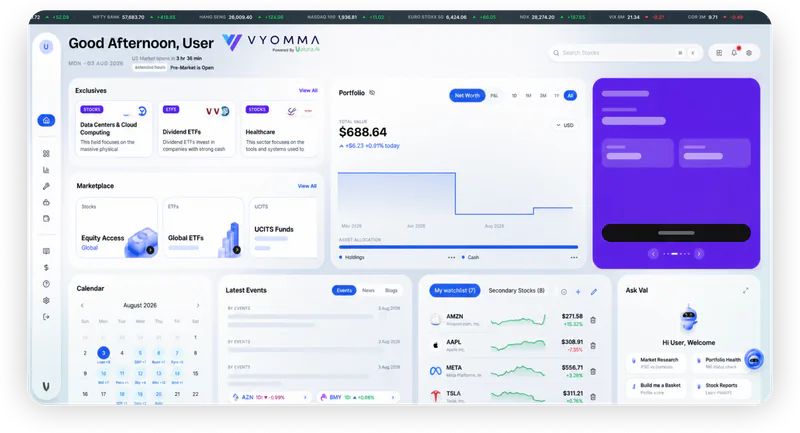
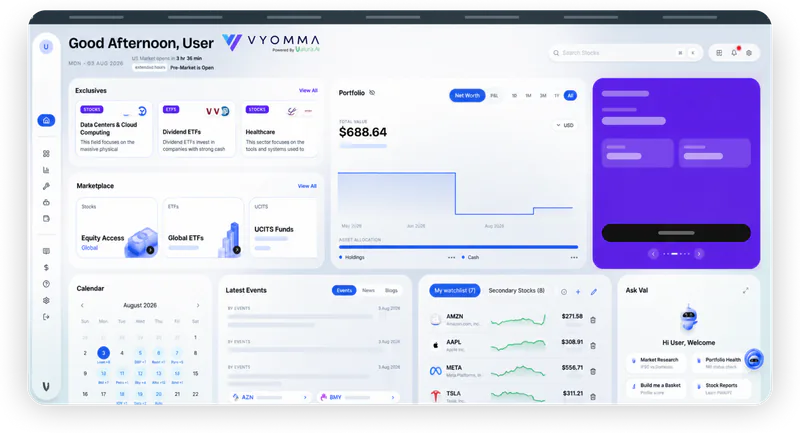
vyomma: paint out return figures and account details in the app screens
A second review of the shipped mock screens found figures and details that should not appear
on a regulated landing page, even with the illustrative caption.

- dashboard: index ticker values, the portfolio day change, watchlist and event chip
  percentage moves replaced with neutral placeholder bars (greetings already read "User")
- portfolio analysis screen: every metric value and sub-label replaced with placeholder bars
- bank screen: masked account number and IFSC value replaced with placeholder bars
- Open Graph image rebuilt from the edited dashboard
- README: describe the edits

diff --git a/README.md b/README.md
@@ -107,9 +107,12 @@ caching. The repository is not linked to any Netlify site; set the variables abo
 
 ## Assets
 
-- `src/assets/app/`: Vyomma-branded app screens from the designer's export, converted to WebP. The dashboard
-  mock-up was edited to remove a named stock "deal" with a projected upside, real news headlines and unverified
-  product counts. The bank-account screen was edited to remove a bank name and an account holder's name.
+- `src/assets/app/`: Vyomma-branded app screens from the designer's export, converted to WebP and edited so they
+  show no return, upside or performance figures and no personal or account details. The dashboard mock-up lost a
+  named stock "deal" with a projected upside, real news headlines, unverified product counts, the portfolio day
+  change, watchlist and event percentage moves and the index ticker values; its greetings read "User", not a
+  person's name. The portfolio-analysis screen lost its metric values. The bank-account screen lost the bank
+  name, account holder, account number and IFSC value.
 - `src/assets/media/`: the globe and chart photo used in "Why global" and the footer wordmark, from the export.
 - `src/assets/brand/`: `valura-green.png` and `valura-white.png`, copied unchanged from the live Narnolia landing.
 - `src/components/brand/vyommaPaths.ts`: the Vyomma mark and wordmark paths from the export.
